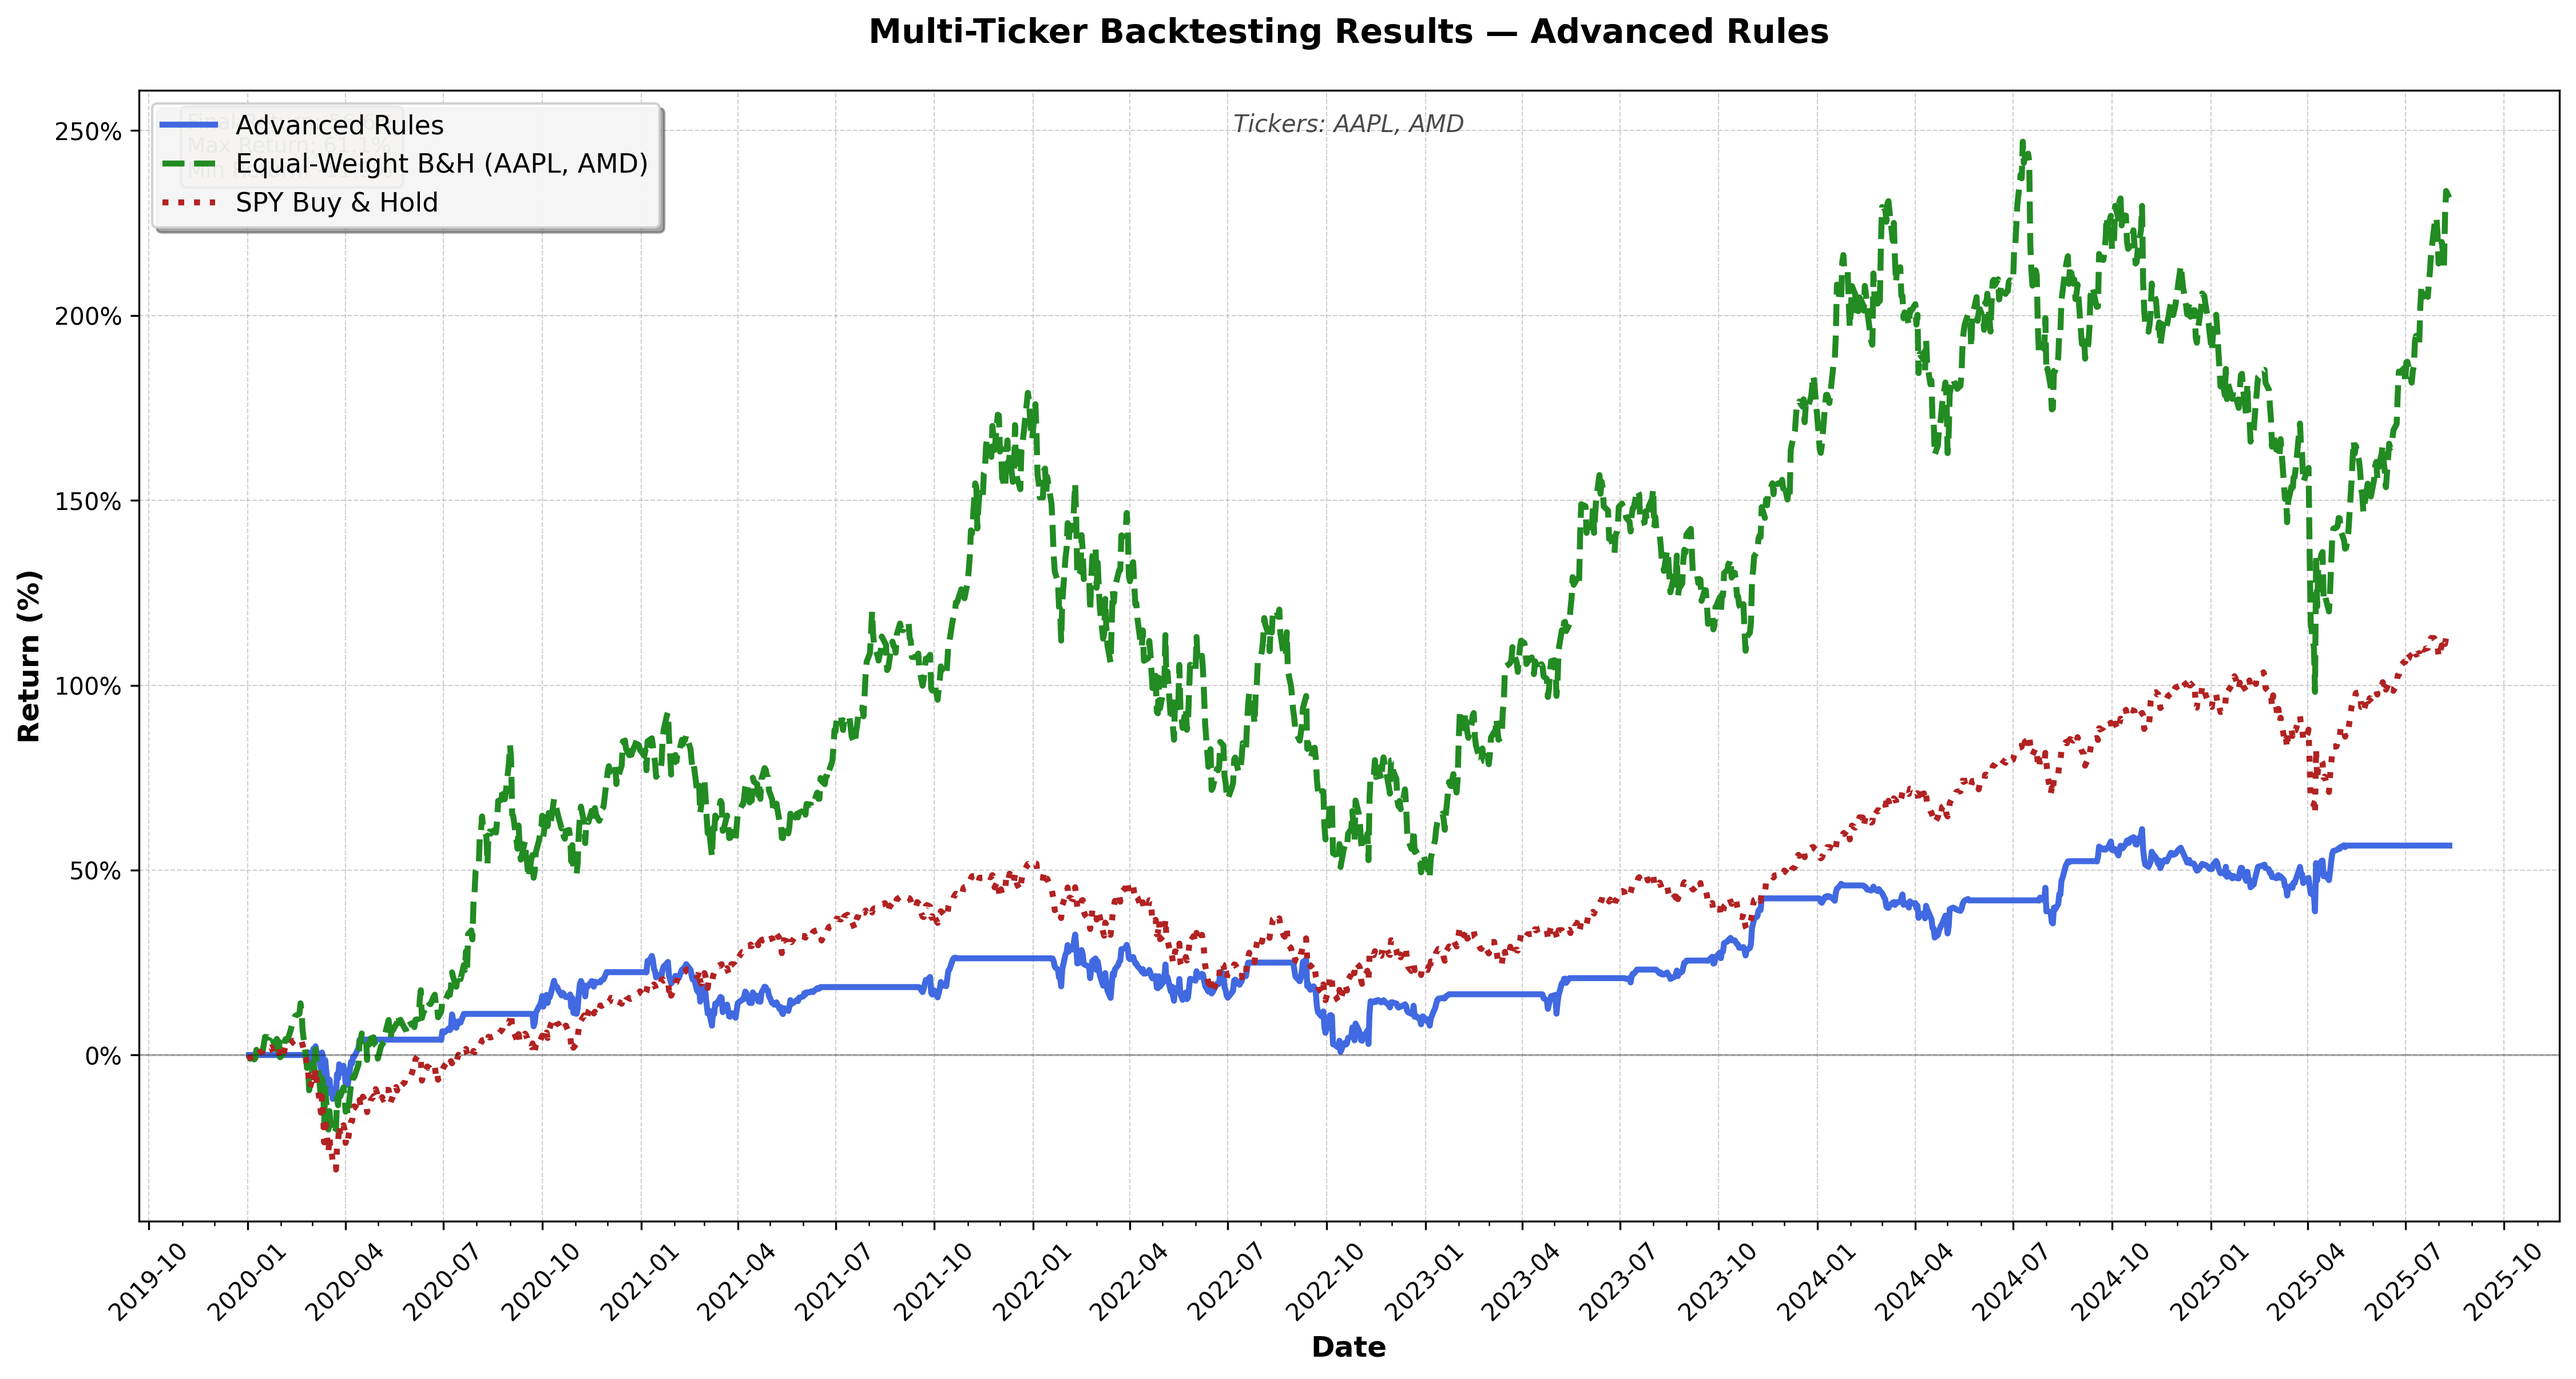
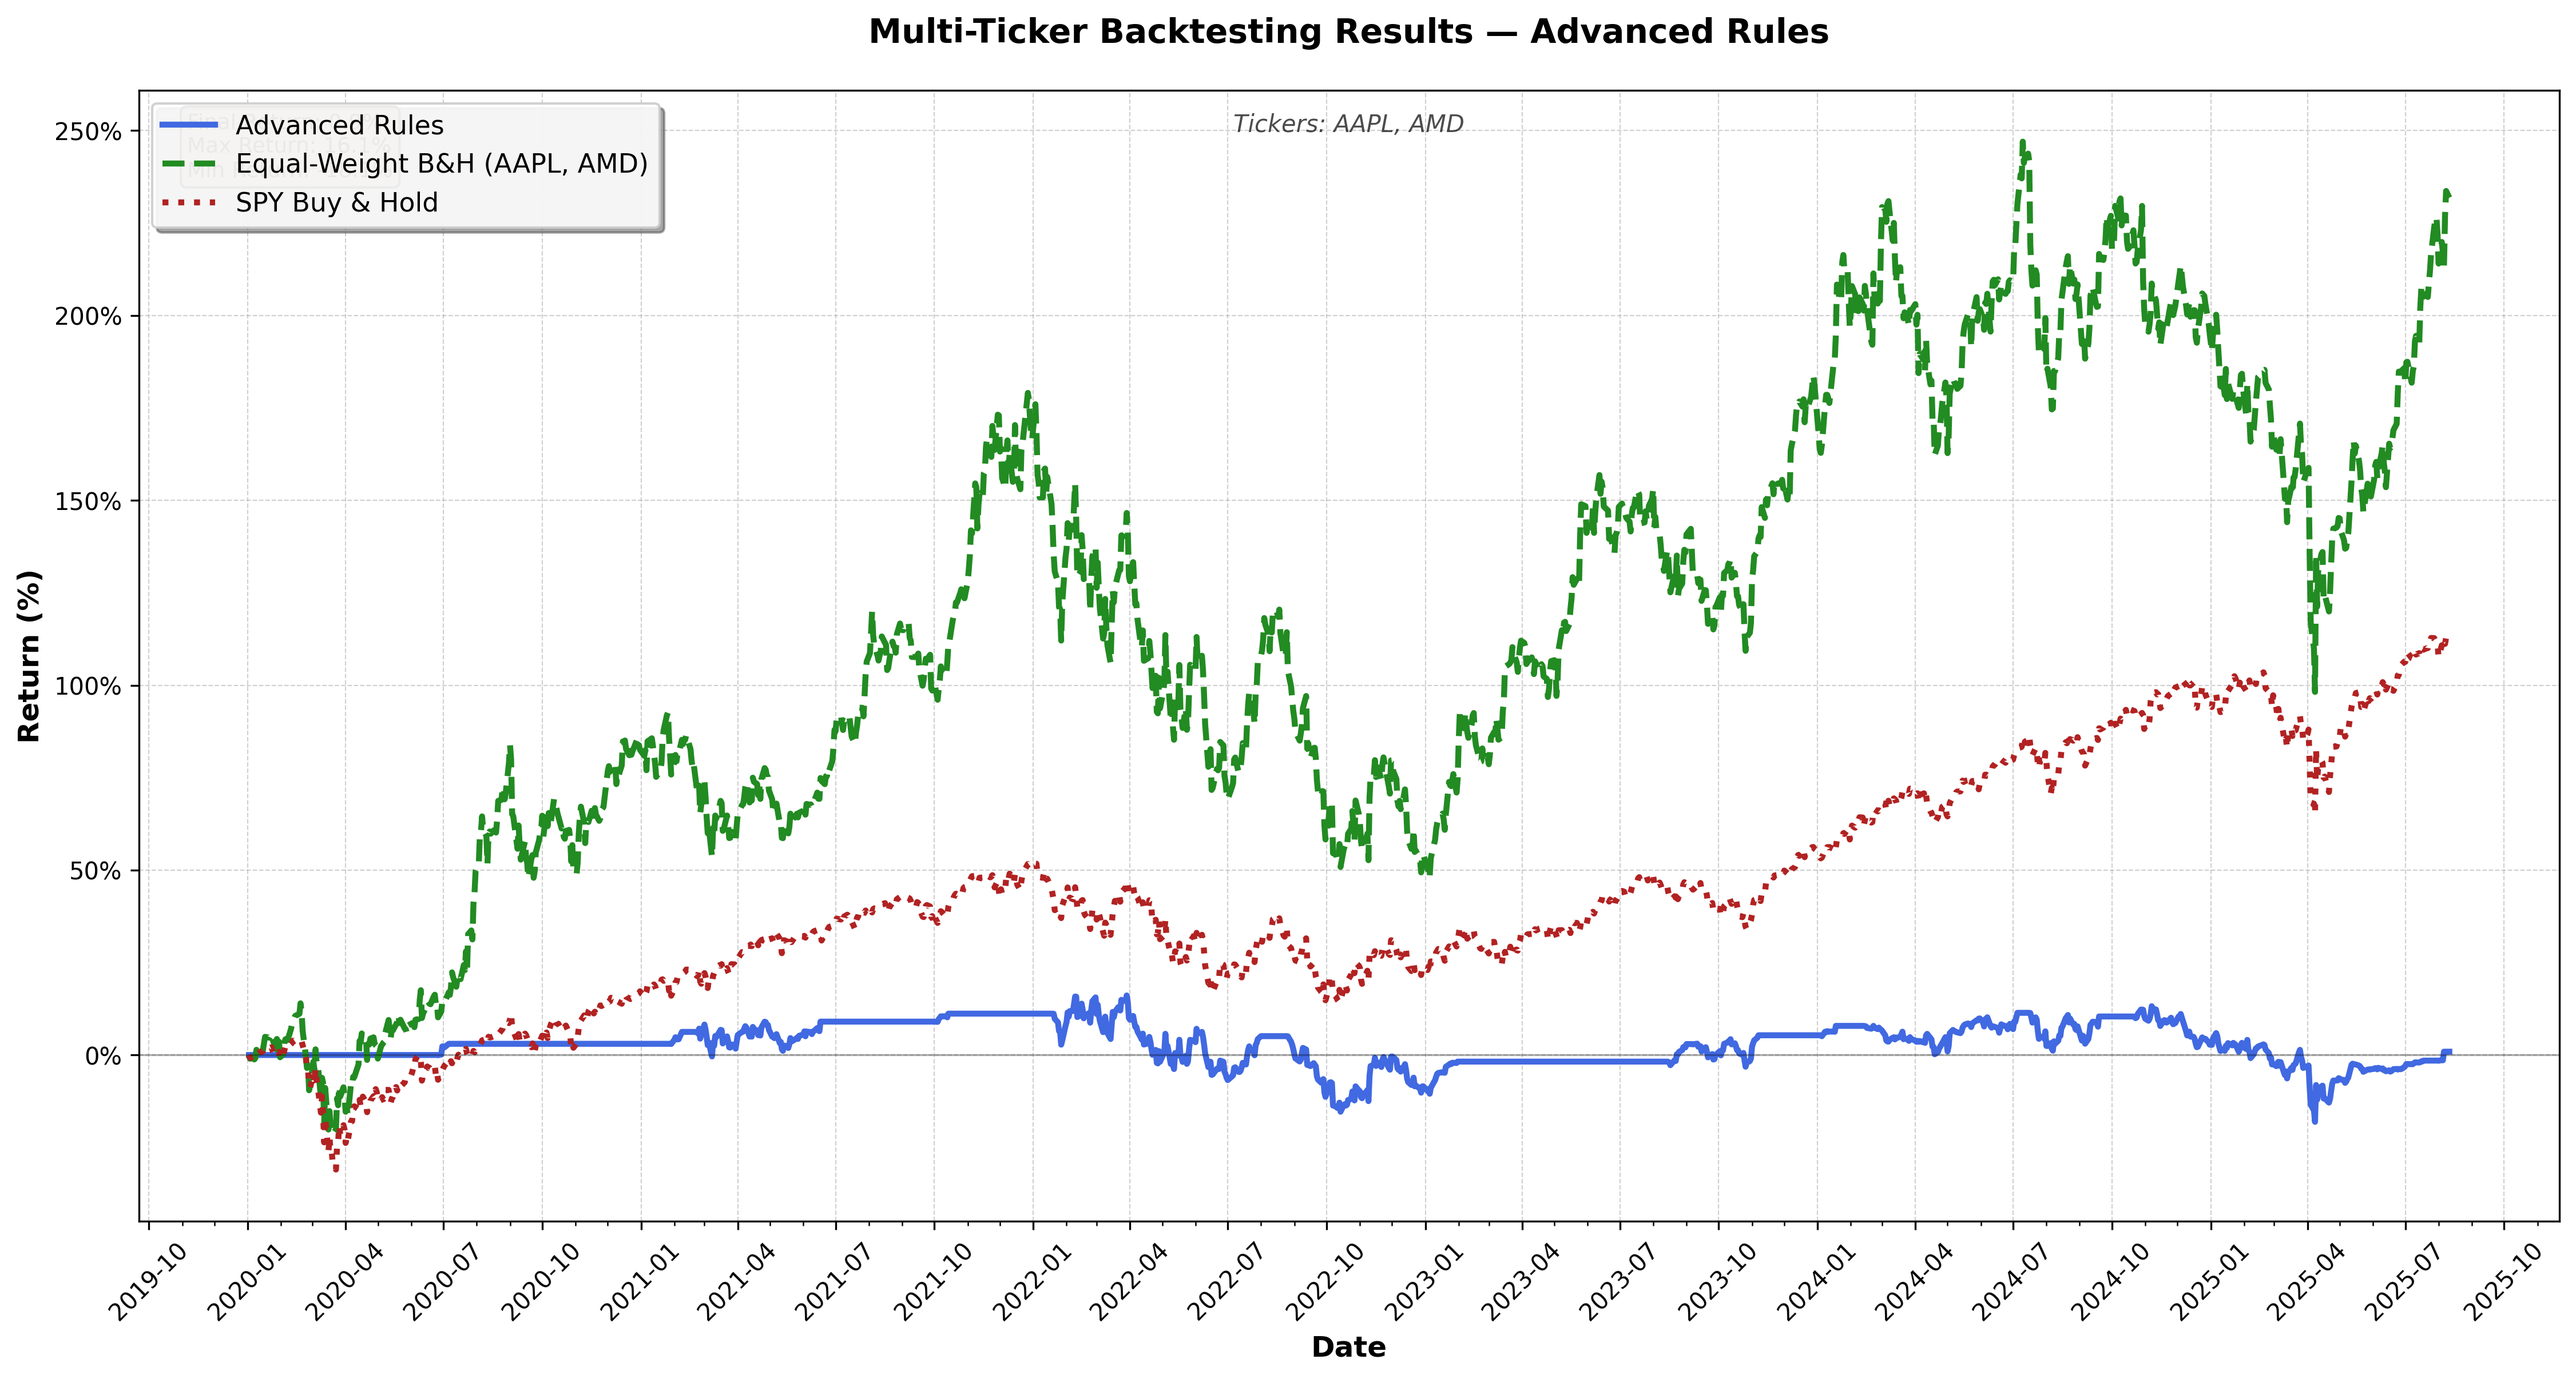
optimize engine

diff --git a/app/backtesting/advanced_rule_engine.py b/app/backtesting/advanced_rule_engine.py
@@ -37,39 +37,54 @@ class AdvancedRuleEngine:
         self.indicators = {}
         self.ti = TechnicalIndicators()
         
-    def calculate_indicators(self, data: pd.DataFrame) -> Dict[str, pd.Series]:
-        """Calculate all technical indicators for the given data"""
+    def calculate_indicators(self, data: pd.DataFrame, required_indicators: set) -> Dict[str, pd.Series]:
+        """Calculate only the technical indicators that are required by the conditions"""
         indicators = {}
         
-        # Price
+        # Always include price as it's fundamental
         indicators['price'] = data['close']
         
-        # RSI
-        indicators['rsi'] = self.ti.rsi(data['close'])
+        # Calculate only required indicators
+        if 'rsi' in required_indicators:
+            indicators['rsi'] = self.ti.rsi(data['close'])
         
-        # Moving Averages
-        for window in [5, 10, 20, 50, 100, 200]:
+        # Moving Averages - only calculate needed windows
+        ma_windows = [int(ind.split('_')[1]) for ind in required_indicators if ind.startswith('ma_')]
+        for window in ma_windows:
             indicators[f'ma_{window}'] = self.ti.sma(data['close'], window)
         
-        # Exponential Moving Averages
-        for window in [5, 10, 20, 50]:
+        # Exponential Moving Averages - only calculate needed windows  
+        ema_windows = [int(ind.split('_')[1]) for ind in required_indicators if ind.startswith('ema_')]
+        for window in ema_windows:
             indicators[f'ema_{window}'] = self.ti.ema(data['close'], window)
         
-        # MACD
-        macd_data = self.ti.macd(data['close'])
-        indicators['macd'] = macd_data['macd']
-        indicators['macd_signal'] = macd_data['signal']
-        indicators['macd_histogram'] = macd_data['histogram']
+        # MACD components - only if any MACD indicator is needed
+        macd_indicators = {'macd', 'macd_signal', 'macd_histogram'}
+        if macd_indicators.intersection(required_indicators):
+            macd_data = self.ti.macd(data['close'])
+            if 'macd' in required_indicators:
+                indicators['macd'] = macd_data['macd']
+            if 'macd_signal' in required_indicators:
+                indicators['macd_signal'] = macd_data['signal']
+            if 'macd_histogram' in required_indicators:
+                indicators['macd_histogram'] = macd_data['histogram']
         
-        # Bollinger Bands
-        bb_data = self.ti.bollinger_bands(data['close'])
-        indicators['bb_upper'] = bb_data['upper']
-        indicators['bb_middle'] = bb_data['middle']
-        indicators['bb_lower'] = bb_data['lower']
+        # Bollinger Bands - only if any BB indicator is needed
+        bb_indicators = {'bb_upper', 'bb_middle', 'bb_lower'}
+        if bb_indicators.intersection(required_indicators):
+            bb_data = self.ti.bollinger_bands(data['close'])
+            if 'bb_upper' in required_indicators:
+                indicators['bb_upper'] = bb_data['upper']
+            if 'bb_middle' in required_indicators:
+                indicators['bb_middle'] = bb_data['middle']
+            if 'bb_lower' in required_indicators:
+                indicators['bb_lower'] = bb_data['lower']
         
-        # Volume indicators
-        indicators['volume'] = data['volume']
-        indicators['volume_ma'] = data['volume'].rolling(window=20).mean()
+        # Volume indicators - only if needed
+        if 'volume' in required_indicators:
+            indicators['volume'] = data['volume']
+        if 'volume_ma' in required_indicators:
+            indicators['volume_ma'] = data['volume'].rolling(window=20).mean()
         
         self.indicators = indicators
         return indicators
@@ -119,20 +134,12 @@ class AdvancedRuleEngine:
             return False
         
         # Apply operator
-        if condition.operator == OperatorType.GREATER_THAN:
-            return indicator_value > compare_value
-        elif condition.operator == OperatorType.LESS_THAN:
-            return indicator_value < compare_value
-        elif condition.operator == OperatorType.ABOVE:
+        if condition.operator == OperatorType.ABOVE:
             return indicator_value > compare_value
         elif condition.operator == OperatorType.BELOW:
             return indicator_value < compare_value
         elif condition.operator == OperatorType.EQUALS:
             return abs(indicator_value - compare_value) < 1e-10
-        elif condition.operator == OperatorType.GREATER_EQUAL:
-            return indicator_value >= compare_value
-        elif condition.operator == OperatorType.LESS_EQUAL:
-            return indicator_value <= compare_value
         else:
             raise ValueError(f"Unknown operator: {condition.operator}")
     
@@ -161,12 +168,37 @@ class AdvancedRuleEngine:
         
         return result
     
+    def _extract_required_indicators(self, conditions: List[Dict[str, Any]]) -> set:
+        """Extract all indicator names that are needed based on the conditions"""
+        required_indicators = set()
+        
+        for condition in conditions:
+            # Add the main indicator
+            indicator_name = condition.get('name', '')
+            required_indicators.add(indicator_name)
+            
+            # Check if the value references another indicator
+            value = condition.get('value', '')
+            if isinstance(value, str) and value != 'price':
+                # This might be a reference to another indicator
+                required_indicators.add(value)
+        
+        # Always include price as it's fundamental
+        required_indicators.add('price')
+        
+        return required_indicators
+    
     def generate_signals(self, data: pd.DataFrame, buy_conditions: List[Dict[str, Any]], 
                         sell_conditions: List[Dict[str, Any]]) -> pd.DataFrame:
         """Generate buy/sell signals based on advanced rules"""
         
-        # Calculate all indicators
-        self.calculate_indicators(data)
+        # Extract required indicators from both buy and sell conditions
+        buy_required = self._extract_required_indicators(buy_conditions)
+        sell_required = self._extract_required_indicators(sell_conditions)
+        all_required = buy_required.union(sell_required)
+        
+        # Calculate only the required indicators
+        self.calculate_indicators(data, all_required)
         
         # Parse conditions
         parsed_buy_conditions = self.parse_conditions(buy_conditions)

diff --git a/app/backtesting/test_backtest.py b/app/backtesting/test_backtest.py
@@ -226,10 +226,10 @@ async def main():
       "start_date": '2020-01-01',
       "end_date": '2025-08-30',  # Full range
       "buy_condition": [
-        { "name": "rsi", "value": 30, "operator": "below" }
+        { "name": "ma_100", "value": "price", "operator": "above" },
       ],
       "sell_condition": [
-        { "name": "rsi", "value": 70, "operator": "above" }
+        { "name": "ma_10", "value": "price", "operator": "below" }
       ]
     }
 
